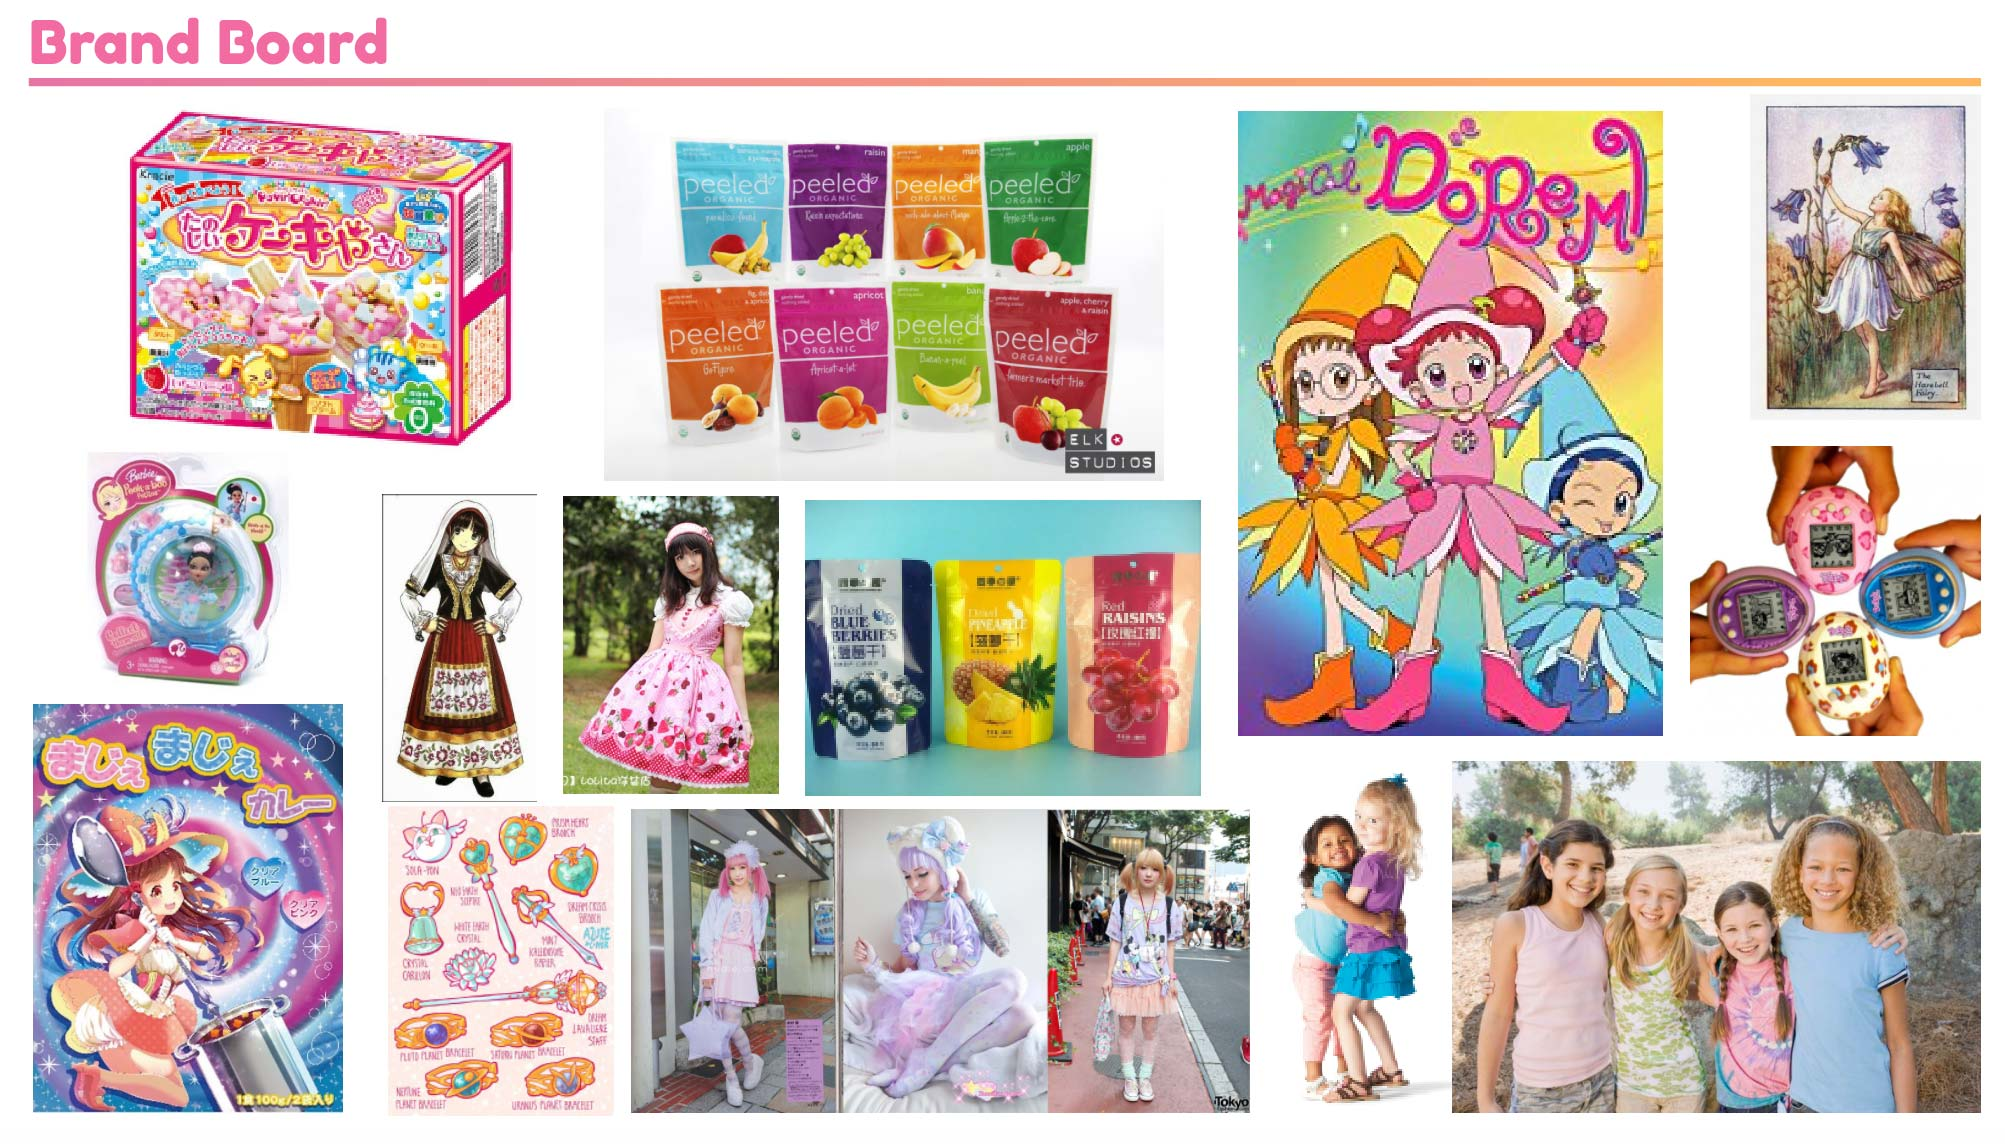
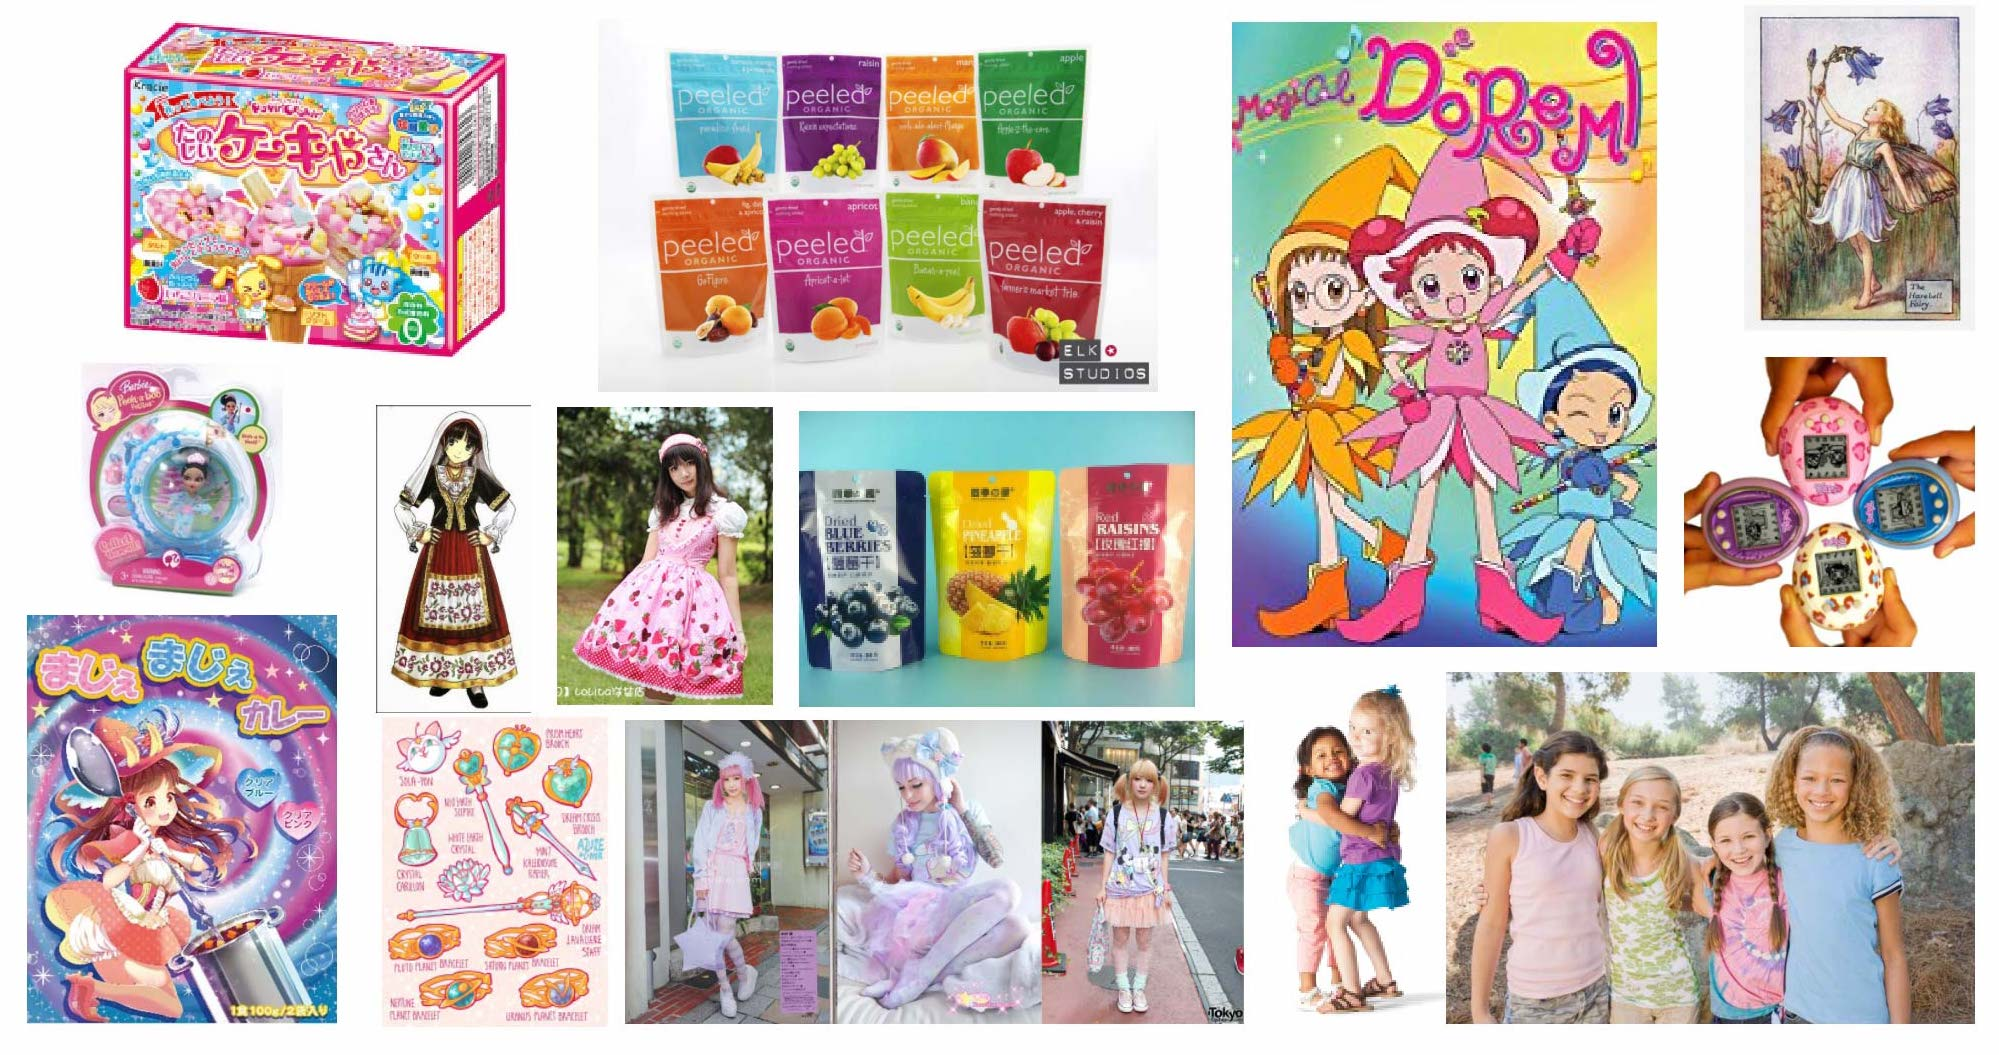
added amai sketches

diff --git a/_portfolio/mooscoop.md b/_portfolio/mooscoop.md
@@ -9,7 +9,7 @@ layout: portfolio-item
 
 Mooscoop is a brand of organic kid's yogurt that I created for my Identity and Symbols class. Most kid's yogurt packaging uses over-the-top and outdated motifs like surfing cows or animals with sunglasses. Even organic yogurt brands like Lifeway's Probug yogurt pouches use illustrations of crazy-eyed, neon-colored bugs that can be very off-putting for adults who will likely associate the design with excessive sugar and dangerous chemicals.
 
-In branding Mooscoop, I chose a bright color scheme that still suggests fruit but I used it in a way that would not suggest overly sugary or chemical-ridden. I did this by including recycled paper textures to the business cards and process book and by balancing areas of white space with color to suggest the smaller ratio of fruit to milk in the actual product.
+In branding Mooscoop, I chose a bright color scheme that still suggests fruit but I used it in a way that would not suggest overly sugary or chemical-ridden. I did this by including recycled paper textures in the business cards and process book and by balancing areas of white space with color to suggest the smaller ratio of fruit to milk in the actual product.
 
 
 
@@ -55,21 +55,6 @@ The back of the business letter contains all the colors of my brand in a bright 
 ![mooscooplandingpage1]({{ "/assets/images/mooscooplogotypefinal.jpg" | relative_url }}){:class="full-width"}
 <br><br><br><br>
 
-<!--
-
-<h1>Mooscoop Logotype Ideation</h1>
-![mooscooplogotypes]({{ "/assets/images/mooscooplogotypes.jpg" | relative_url }}){:class="full-width"}
-<br><br><br><br>
-<h1>Mooscoop Logo Ideation</h1>
-![mooscooplogos]({{ "/assets/images/mooscooplogos.jpg" | relative_url }}){:class="full-width"}
-<br><br><br><br>
-<h1>Mooscoop Final Three Logos and Logotypes</h1>
-![mooscoopfinallogos]({{ "/assets/images/mooscoopfinallogos.jpg" | relative_url }}){:class="full-width"}
-<br><br><br><br>
-![mooscooplogotypefinal]({{ "/assets/images/mooscooplogotypefinal.jpg" | relative_url }}){:class="full-width"}
-<br>
-
--->
 
 <!--<h1>Business Set Rough Drafts</h1>
 ![mooscoopdraft1]({{ "/assets/images/mooscoopdraft1.jpg" | relative_url }}){:class="full-width"}

diff --git a/_portfolio/amai.md b/_portfolio/amai.md
@@ -34,6 +34,22 @@ The packets and the bracelet fit snugly in the Amai Surprise box, which has a cl
 <br><br><br><br>
 ![Adriana Belinski]({{ "/assets/images/amai6.jpg" | relative_url }}){:class="full-width"}
 The final box contains three fruit packets, one bracelet, and three cards. (Everything is cushioned by glittering filler)
+
+<br><br><br><br>
+<h1>Company Logo and Product Logotype</h1>
+![Adriana Belinski]({{ "/assets/images/amai7.jpg" | relative_url }}){:class="full-width"}
+Niji means rainbow in Japanese and Amai means sweet.
+<br><br><br><br>
+<h1>Moodboard</h1>
+![Adriana Belinski]({{ "/assets/images/amai8.jpg" | relative_url }}){:class="full-width"}
+<br><br><br><br>
+<h1>Brandboard</h1>
+![Adriana Belinski]({{ "/assets/images/amai9.jpg" | relative_url }}){:class="full-width"}
+<br><br><br>
+<h1>Concept Sketch</h1>
+![Adriana Belinski]({{ "/assets/images/amaisketches.jpg" | relative_url }}){:class="full-width"}
+This is Rose's initial character design along with the company logo and a gift basket idea instead of the final box solution.
+
 <!--
 <br><br><br><br>
 ![Adriana Belinski]({{ "/assets/images/amai7.jpg" | relative_url }}){:class="full-width"}
